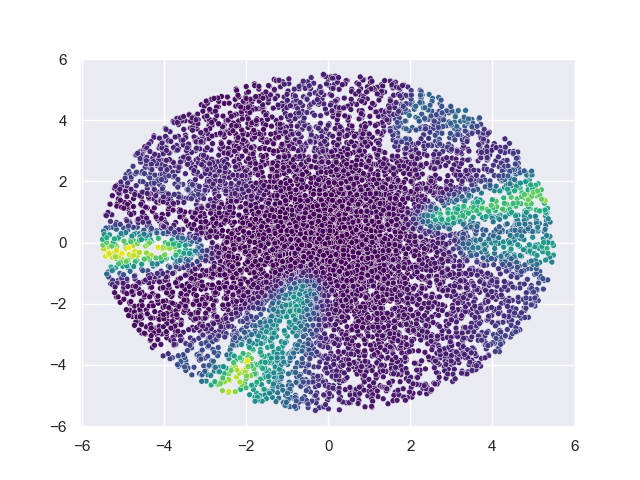
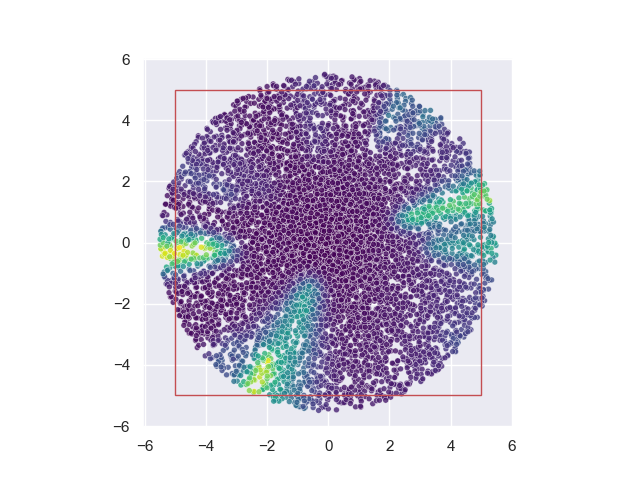
add circle and square

diff --git a/NewPrograms/Visualizer.py b/NewPrograms/Visualizer.py
@@ -9,6 +9,8 @@ import os
 import pickle
 from FileHelper import FileHelper
 from ModelHelper import ModelHelper
+import matplotlib.patches as patches
+from matplotlib.patches import Circle
 
 
 class Visualizer:
@@ -161,8 +163,20 @@ class Visualizer:
         fig.colorbar(cs1, ax=ax1)
         fig.colorbar(cs2, ax=ax2)
         fig.colorbar(cs3, ax=ax3)
+        
+        # Ajouter un cercle de rayon 5.5 centré en (0, 0)
+        circle = plt.Circle((0, 0), 5.5, color='white', fill=False)
+        circle1 = plt.Circle((0, 0), 5.5, color='white', fill=False)
+        circle2 = plt.Circle((0, 0), 5.5, color='black', fill=False)
+        ax1.add_artist(circle)
+        ax2.add_artist(circle1)
+        ax3.add_artist(circle2)
+        
+        ax1.set_aspect('equal', adjustable='box')
+        ax2.set_aspect('equal', adjustable='box')
+        ax3.set_aspect('equal', adjustable='box')
+
         plt.savefig(density_plot_path)
-        # plt.show()
         
     def model_histogram(self):
         x = self.dens_grid_datas['X']
@@ -348,7 +362,14 @@ class Visualizer:
         y = y.cpu().numpy()
         
         sns.set_theme()
-        sns.scatterplot(x=x, y=y, hue=self.dataset.K, palette='viridis', size=1, legend=False)
+        sns.scatterplot(x=x, y=y, hue=self.dataset.K, palette='viridis', size=1, legend=False, alpha=0.8)
+        
+        # Ajouter un carré de 5 par 5 centré en (0, 0)
+        ax = plt.gca()
+        square = patches.Rectangle((-5, -5), 10, 10, linewidth=1, edgecolor='r', facecolor='none')
+        ax.add_patch(square)
+        ax.set_aspect('equal', adjustable='box')
+        
         plt.savefig("star_map.png")
 
     @staticmethod
